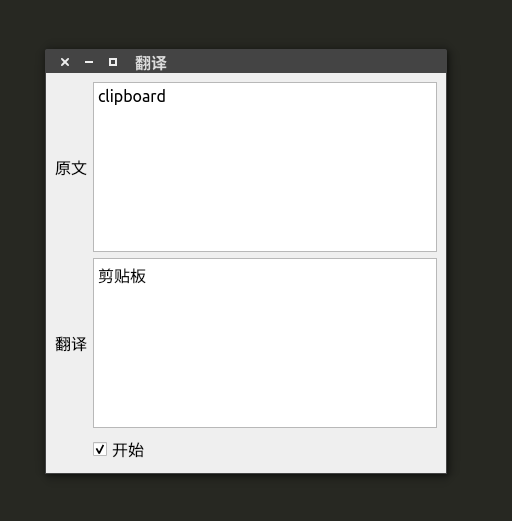
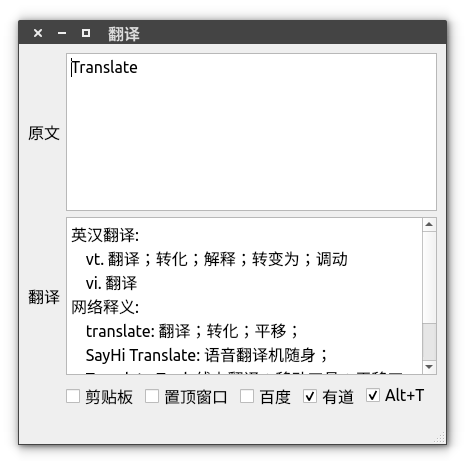
更新Readme

diff --git a/widgets.py b/widgets.py
@@ -24,7 +24,7 @@ class MainWidget(QWidget):
         self.input = QTextEdit()
         label2 = QLabel('翻译')
         self.output = QTextEdit()
-        self.switch = QCheckBox("开始")
+        self.switch = QCheckBox("剪贴板")
         self.alwaysOnTop = QCheckBox("置顶窗口")
         self.baidu = QCheckBox("百度")
         self.youdao = QCheckBox("有道")

diff --git a/README.md b/README.md
@@ -2,10 +2,12 @@
 简单的翻译工具，使用pyqt和百度翻译api，仅支持翻译成中文
 
 #### 使用
-0. 创建config文件，写入接口需要的百度开发者相关信息，第一行是appid，第二行是密钥
-1. 勾选底部“开始”勾选框。
-2. 复制想要翻译的文本。
-3. 即可。
+0. 支持选择百度api或有道api:
+    - 百度：需要创建config文件，写入接口需要的百度开发者相关信息，第一行是appid，第二行是密钥
+    - 有道：有道api的apikey是网上搜的，不需要另外配置。
+1. 取词方式：
+    - 剪贴板：勾选“剪贴板”选框，复制文本即为选词并翻译。
+    - 快捷键：勾选“Alt+T”选框，选中文本后按Alt+T组合键。目前仅支持x11的linux(ubuntu)。需要pip安装pyqtkeybind。
 
 #### 截图
 ![image](https://github.com/xing2387/simpleTranslate/blob/main/Screenshot.png)
